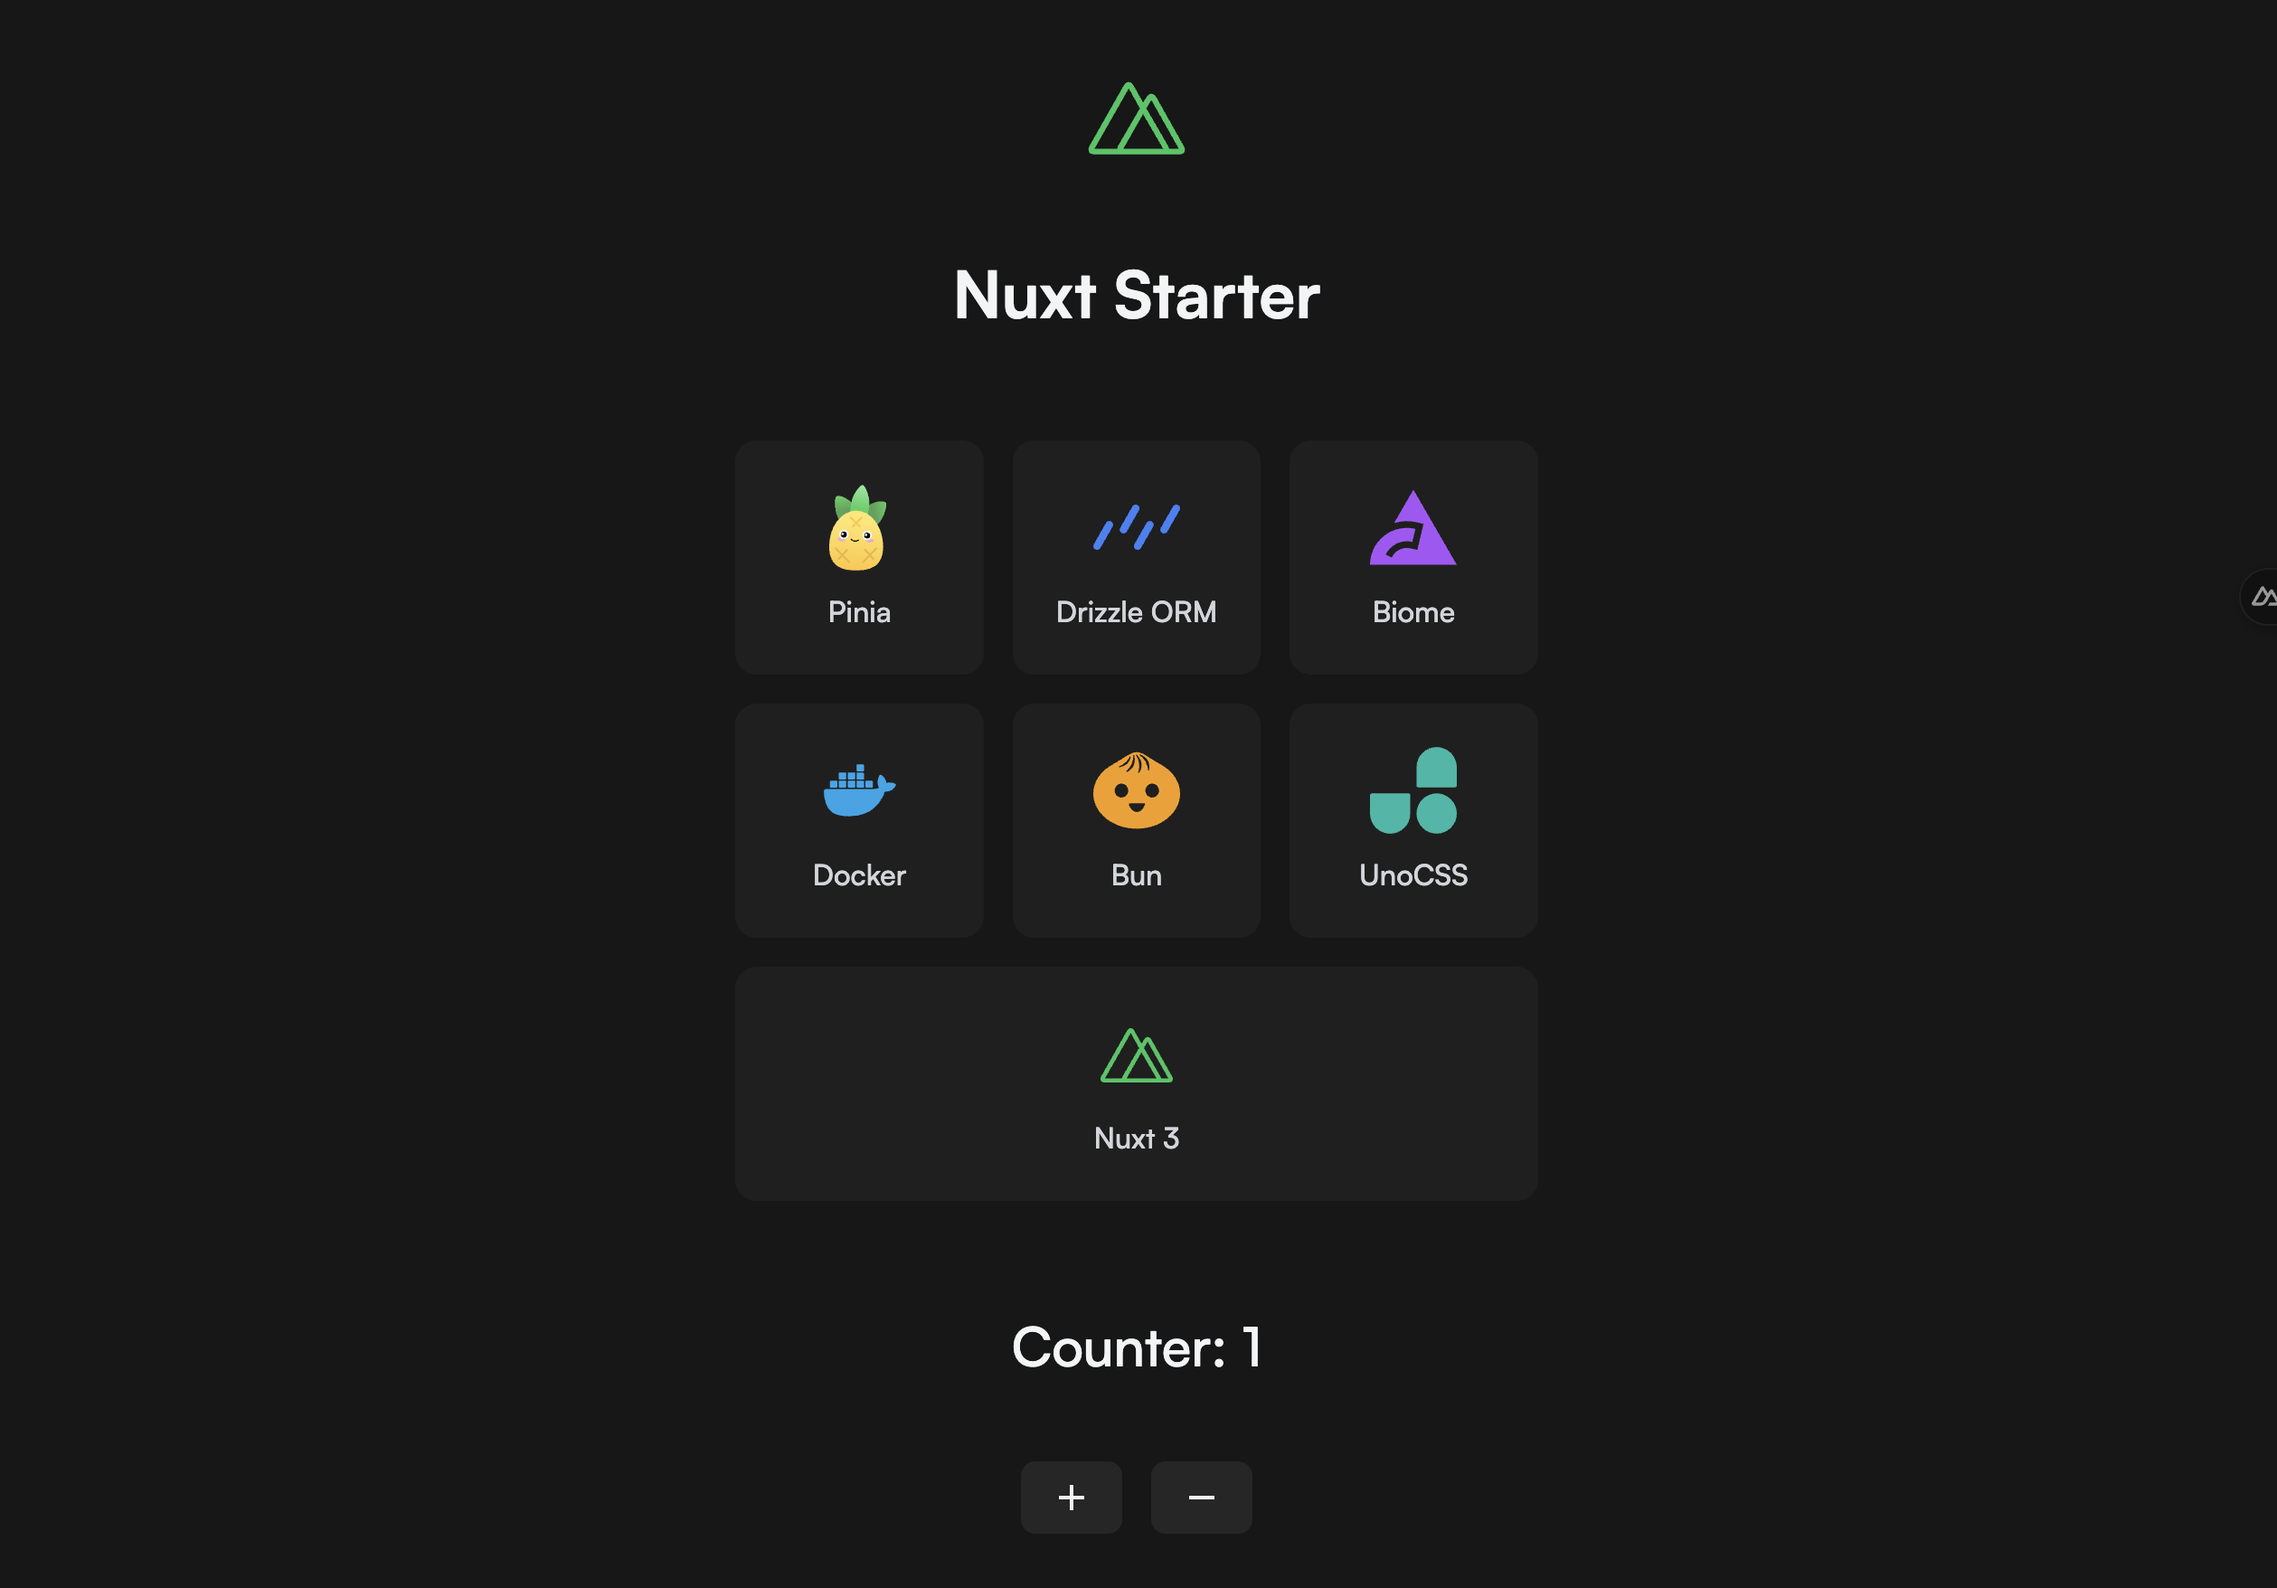
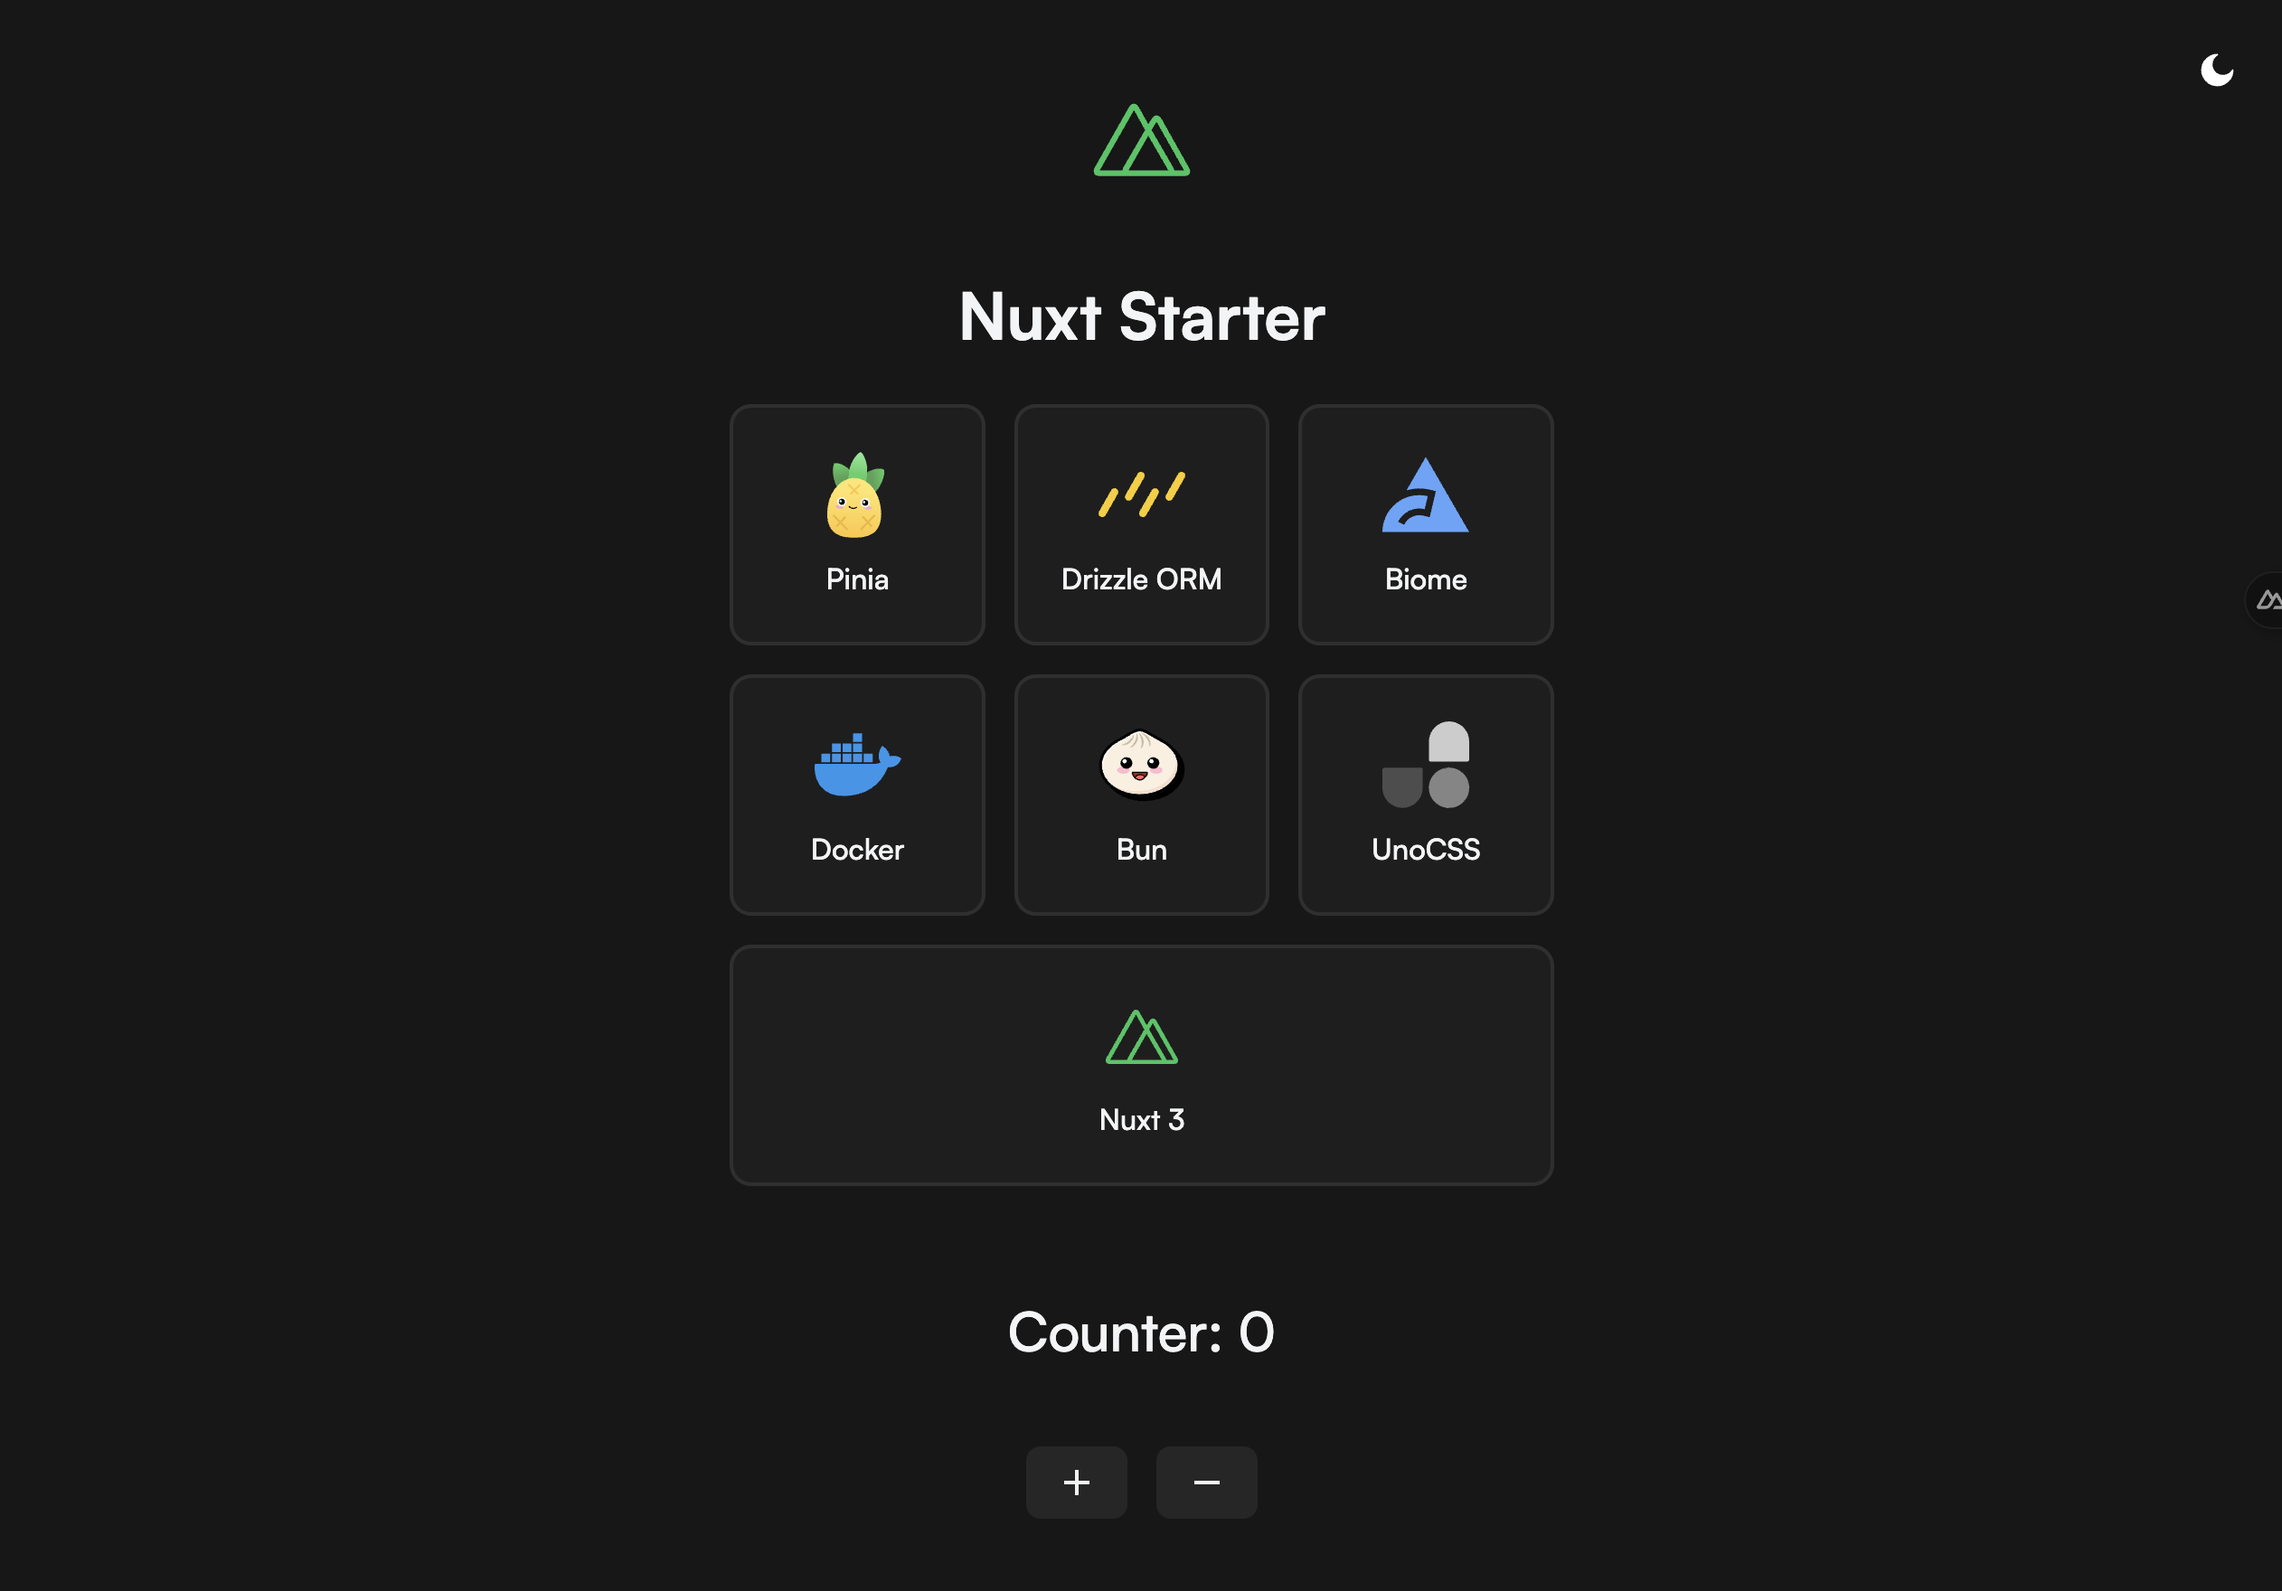
feat: dummy ui

diff --git a/app/components/Hero.vue b/app/components/Hero.vue
@@ -1,0 +1,64 @@
+<script setup lang="ts">
+const icons = [
+    {
+        name: 'pinia',
+        iconName: 'logos:pinia',
+        label: 'Pinia',
+    },
+    {
+        name: 'drizzle',
+        iconName: 'simple-icons:drizzle',
+        label: 'Drizzle ORM',
+    },
+    {
+        name: 'biome',
+        iconName: 'devicon:biome',
+        label: 'Biome',
+    },
+    {
+        name: 'docker',
+        iconName: 'logos:docker-icon',
+        label: 'Docker',
+    },
+    {
+        name: 'bun',
+        iconName: 'devicon:bun',
+        label: 'Bun',
+    },
+    {
+        name: 'unocss',
+        iconName: 'logos:unocss',
+        label: 'UnoCSS',
+    }
+];
+</script>
+
+<template>
+    <section class="bg-inherit w-full h-full justify-center overflow-auto items-center flex flex-col">
+        <div class="max-w-6xl mx-auto flex flex-col items-center">
+            <div class="flex flex-col items-center gap-4 ">
+                <Icon name="mdi:nuxt" class="text-green-500 w-16 h-16" />
+                <h1 class="dark:text-gray-100 text-gray-900 text-4xl font-bold">Nuxt Starter</h1>
+            </div>
+            <div class="grid grid-cols-1 text-gray-900 dark:text-gray-100 md:grid-cols-3 gap-4 w-full max-w-4xl">
+                <div v-for="icon in icons"
+                    class="dark:bg-neutral-800/50 bg-gray-100 p-6 rounded-xl border-2 border-neutral-700/50 hover:border-green-500">
+                    <div class="flex flex-col items-center gap-3">
+                        <Icon :name="icon.iconName" :class="icon.name == 'drizzle' ? 'text-yellow-400' : ''"
+                            class="w-12 h-12 group-hover:scale-110" />
+                        <span class="font-medium">{{ icon.label }}</span>
+                    </div>
+                </div>
+                <div
+                    class="md:col-span-3 dark:bg-neutral-800/50 bg-gray-100 p-6 rounded-xl border-2 border-neutral-700/50 hover:border-green-500">
+                    <div class="flex flex-col items-center gap-3">
+                        <Icon name="mdi:nuxt"
+                            class="w-12 h-12 text-green-500 group-hover:scale-110 transition-transform" />
+                        <span class="font-medium">Nuxt 3</span>
+                    </div>
+                </div>
+            </div>
+            <Counter />
+        </div>
+    </section>
+</template>

diff --git a/app/components/Counter.vue b/app/components/Counter.vue
@@ -1,17 +1,18 @@
 <script setup lang="ts">
-const { count, increment, decrement } = useCount();
+import { useCount } from '~/store/count';
+const counter = useCount();
 
 const buttons = [
-  { icon: 'ic:baseline-plus', fn: increment },
-  { icon: 'ic:baseline-minus', fn: decrement },
+  { icon: 'ic:baseline-plus', fn: counter.increment },
+  { icon: 'ic:baseline-minus', fn: counter.decrement },
 ]
 
 </script>
 
 <template>
   <div class="mt-8">
-    <div class="flex flex-col items-center gap-4">
-      <p class="text-gray-100 text-3xl font-medium">Counter: {{ count }}</p>
+    <div class="flex flex-col items-center gap-4 dark:text-gray-100 text-gray-900">
+      <p class="text-3xl font-medium">Counter: {{ counter.count }}</p>
       <div class="flex items-center gap-4">
         <button v-for="button in buttons" @click="button.fn"
           class="bg-neutral-800 border-none hover:bg-neutral-700 text-gray-100 px-4 py-2 rounded-lg transition-colors duration-200 flex items-center justify-center group">

diff --git a/app/components/Theme.vue b/app/components/Theme.vue
@@ -1,0 +1,26 @@
+<script setup lang="ts">
+
+const colorMode = useColorMode({
+    modes: {
+        light: 'light',
+        dark: 'dark'
+    }
+})
+const isDark = useState('isDark', ()=>true)
+
+const toggleColorMode = () => {
+    colorMode.value = colorMode.value === 'light' ? 'dark' : 'light'
+    isDark.value = !isDark.value
+}
+
+onMounted(() => {
+    isDark.value = colorMode.value === 'dark'
+})
+</script>
+
+<template>
+    <button @click="toggleColorMode" class="p-2 bg-inherit border-none">
+        <Icon name="solar:moon-bold" v-if="isDark" class="p-1 text-white" />
+        <Icon name="solar:sun-bold" v-else  class="p-1 text-black" />
+    </button>
+</template>

diff --git a/uno.config.ts b/uno.config.ts
@@ -26,6 +26,21 @@ export default defineConfig({
                         margin: 0;
                         padding: 0;
                     }
+
+                    .border {
+                        border-width: 1px;
+                        border-style: solid;
+                    }
+
+                    .border-2 {
+                        border-width: 2px;
+                        border-style: solid;
+                    }
+
+                    .border-4 {
+                        border-width: 4px;
+                        border-style: solid;
+                    }
                 `
             }
         }

diff --git a/app/pages/auth.vue b/app/pages/auth.vue
@@ -1,0 +1,17 @@
+<script setup lang="ts">
+
+const isLogin = ref(true);
+
+const toggleType = () => {
+    isLogin.value = !isLogin.value;
+}
+
+const toggleText = computed(() => isLogin.value ? 'Already have an account? Login here!' : 'Don\'t have an account? Sign up here!');
+
+</script>
+
+<template>
+    <main class="w-screen h-screen flex justify-center items-center">
+        <AuthForm :text="toggleText" toggle="toggleType" :isLogin="isLogin" />
+    </main>
+</template>

diff --git a/app/pages/index.vue b/app/pages/index.vue
@@ -1,5 +1,8 @@
 <template>
-    <main class="w-screen h-screen flex flex-col bg-neutral-900">
-        <HomeHero />
+    <main class="w-screen h-screen dark:bg-neutral-900 bg-white">
+        <div class="fixed top-5 right-5">
+            <Theme />
+        </div>
+        <Hero />
     </main>
 </template>

diff --git a/app/store/count.ts b/app/store/count.ts
@@ -1,0 +1,13 @@
+export const useCount = defineStore({
+    id: 'count',
+    state: () => ({ count: 0 }),
+    actions: {
+        increment() {
+            this.count++
+        },
+        decrement() {
+            this.count--
+        },
+    },
+    persist: true,
+})
